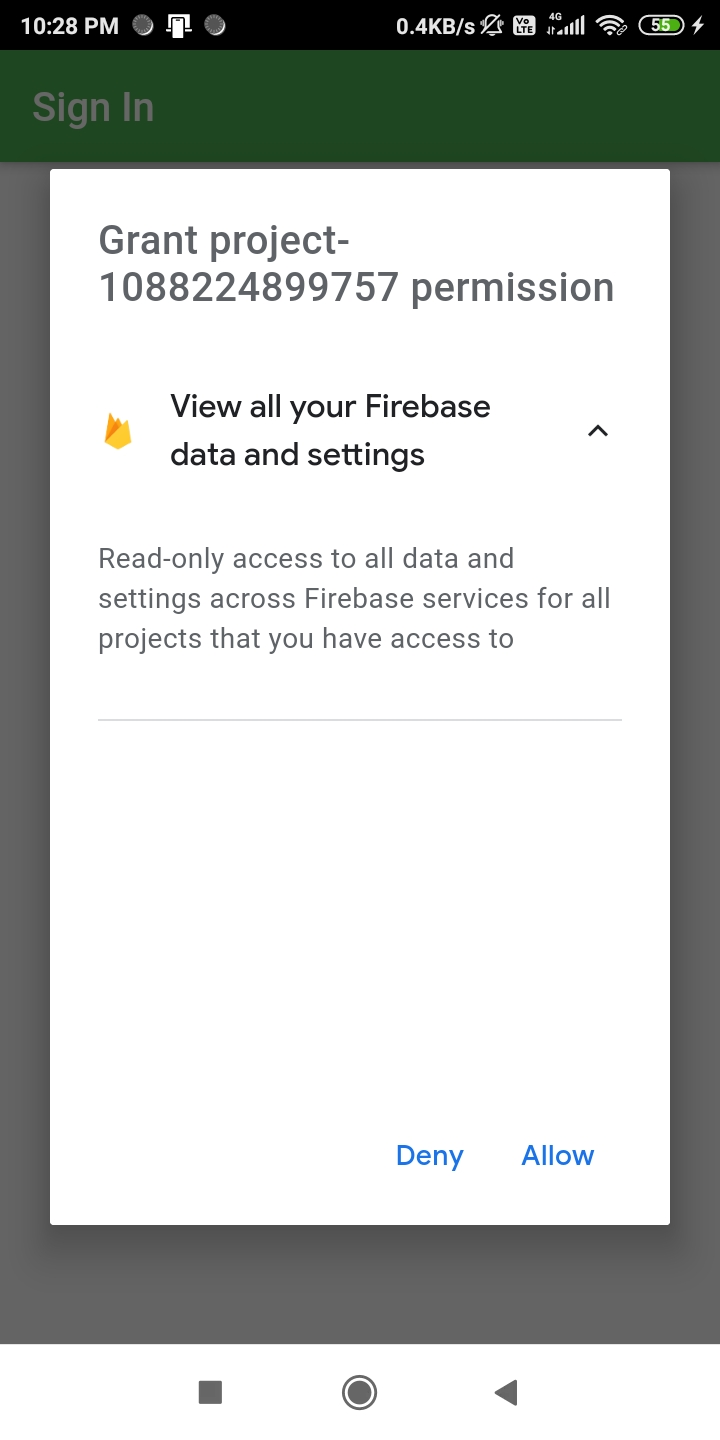
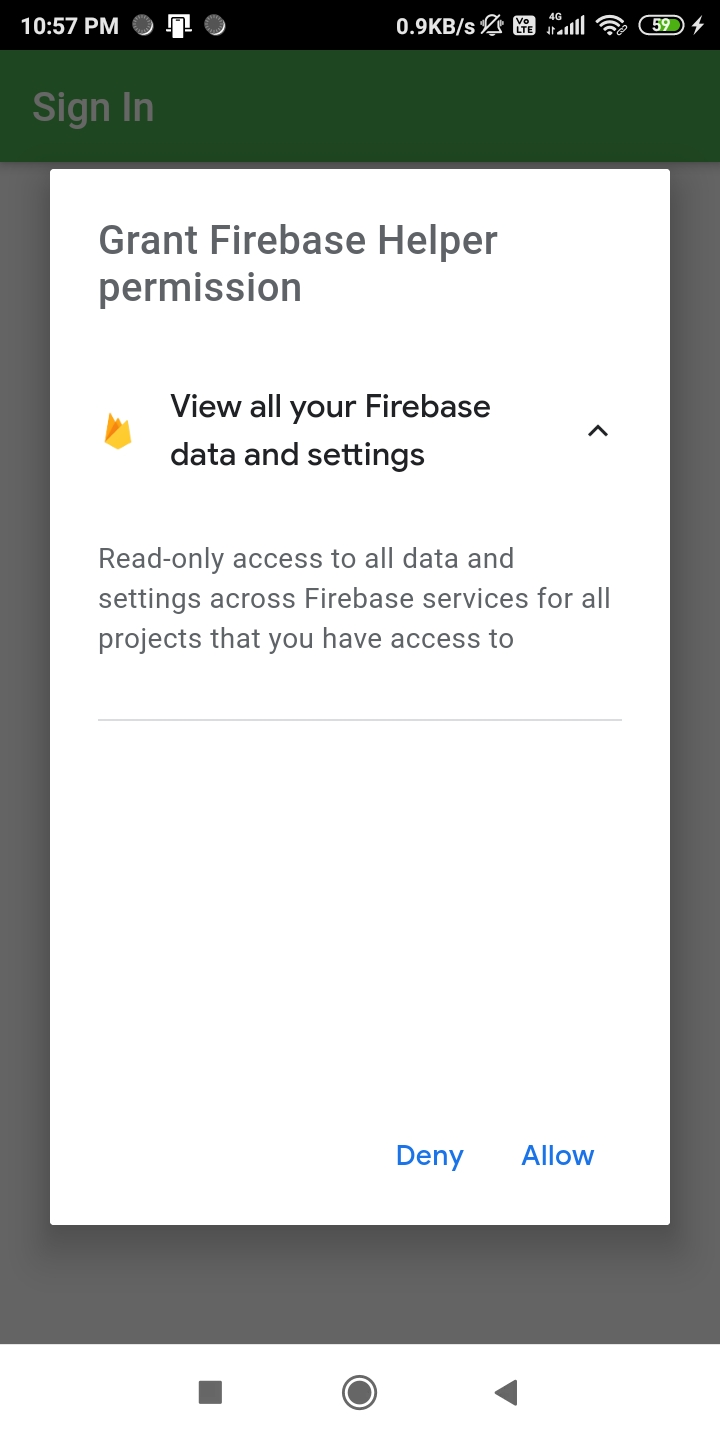
Install Link added.

Changed region(s): [[0.1222, 0.1562, 0.8556, 0.2188], [0.0611, 0.0, 0.1222, 0.0312], [0.5806, 0.0, 0.6111, 0.0312]]

diff --git a/lib/pages/wrapper.dart b/lib/pages/wrapper.dart
@@ -1,5 +1,4 @@
 import 'package:flutter/material.dart';
-import 'package:google_sign_in/google_sign_in.dart';
 import 'package:google_sign_in_workflow/data/appData.dart';
 import 'package:google_sign_in_workflow/pages/auth_page.dart';
 import 'package:google_sign_in_workflow/pages/home_page.dart';

diff --git a/README.md b/README.md
@@ -1,5 +1,7 @@
 ### FIREBASE HELPER
-The app uses basic Google API integration with Google OAuth to access user data.
+The app uses basic Google API integration with OAuth2.0 to list Firebase projects linked with user's Google account.
+
+#### [Install APK](https://drive.google.com/file/d/1ypKt0ux_IIRNQK6MNlZc1fQCia5lnmBA/view?usp=drivesdk)
 #### API
 Firebase Management API (Read Only)
 #### Screenshots
